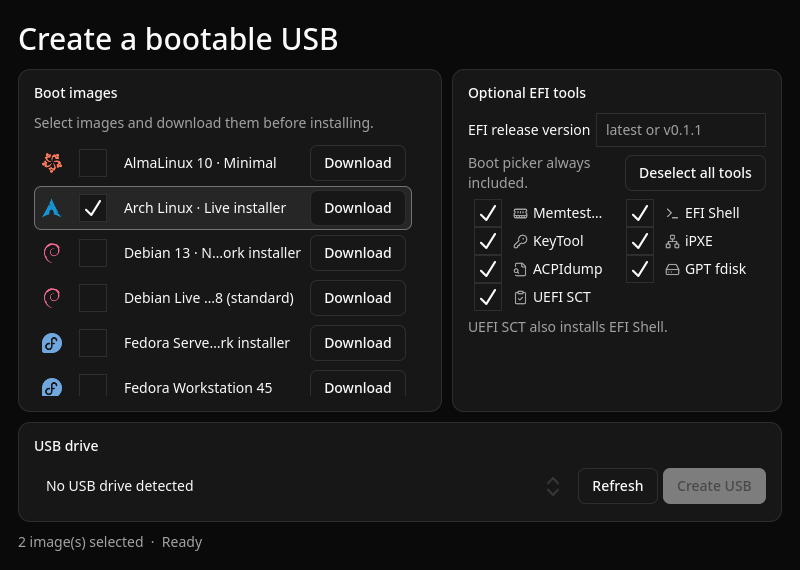
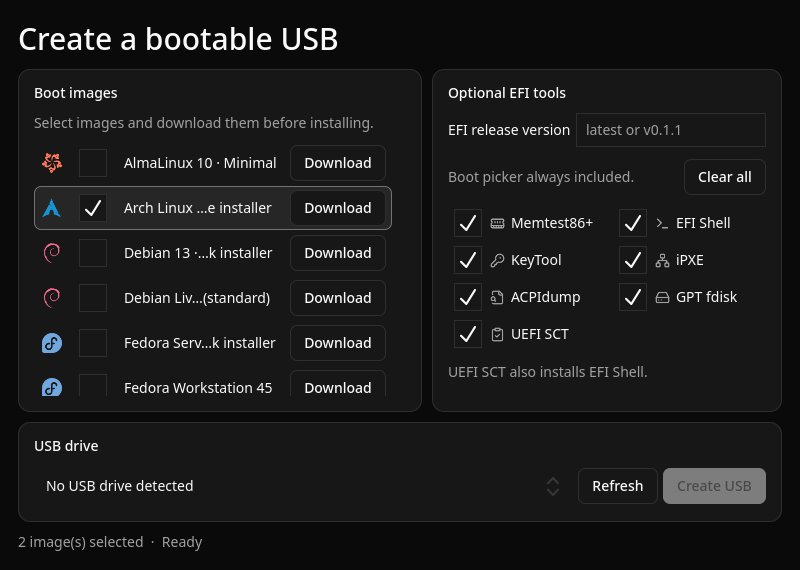
Give the EFI tools panel more room

diff --git a/installer/src/ui.qml b/installer/src/ui.qml
@@ -9,8 +9,8 @@ QQC2.ApplicationWindow {
     visible: true
     width: 800
     height: 570
-    minimumWidth: 720
-    minimumHeight: 540
+    minimumWidth: 730
+    minimumHeight: 550
     title: "EFI Swiss Knife"
     color: "#0a0a0a"
     font.family: Qt.fontFamilies().includes("Geist") ? "Geist" : Qt.application.font.family
@@ -173,10 +173,10 @@ QQC2.ApplicationWindow {
             Section {
                 title: "Optional EFI tools"
                 Layout.fillHeight: true
-                Layout.preferredWidth: 330
-                Layout.minimumWidth: 330
+                Layout.preferredWidth: 350
+                Layout.minimumWidth: 350
                 contentItem: ColumnLayout {
-                    spacing: 6
+                    spacing: 12
                     RowLayout {
                         visible: installer.release_mode
                         Layout.fillWidth: true
@@ -198,7 +198,8 @@ QQC2.ApplicationWindow {
                             text: "Boot picker always included."
                         }
                         Button {
-                            text: "Deselect all tools"
+                            text: "Clear all"
+                            Accessible.name: "Deselect all EFI tools"
                             onClicked: {
                                 for (let i = 0; i < toolList.count; ++i)
                                     (toolList.itemAt(i) as QQC2.CheckBox).checked = false;
@@ -208,7 +209,8 @@ QQC2.ApplicationWindow {
                     GridLayout {
                         Layout.fillWidth: true
                         columns: 2
-                        rowSpacing: 0
+                        rowSpacing: 5
+                        columnSpacing: 12
                         Repeater {
                             id: toolList
                             model: installer.tool_names.split("\n")
@@ -218,15 +220,15 @@ QQC2.ApplicationWindow {
                                 Layout.fillWidth: true
                                 Layout.preferredWidth: 1
                                 Layout.minimumWidth: 0
-                                implicitHeight: 28
+                                implicitHeight: 32
                                 topPadding: 0
                                 bottomPadding: 0
                                 text: modelData.startsWith("UEFI SCT") ? "UEFI SCT" : modelData
                                 checked: true
                                 contentItem: RowLayout {
-                                    spacing: 5
+                                    spacing: 6
                                     Item {
-                                        Layout.preferredWidth: toolCheck.indicator.width + 6
+                                        Layout.preferredWidth: toolCheck.indicator.width + 2
                                     }
                                     Image {
                                         readonly property var icons: ({

diff --git a/installer/README.md b/installer/README.md
@@ -26,7 +26,7 @@ checksums before requesting administrator privileges. The repository can
 also be set at compile time using the same variable. If it is unset, the
 installer uses local tools and requires a [local picker build](../docs/build.md).
 The **Optional EFI tools** checklist defaults to all tools. Deselect any you
-don't want, or use **Deselect all tools** to install only the picker and your
+don't want, or use **Clear all** to install only the picker and your
 images. Release mode downloads and verifies the EFI archive, then extracts
 only the picker and selected tools using `tar`. Leave **EFI release version**
 blank to use the latest release, or enter an exact tag such as `v0.1.1`
